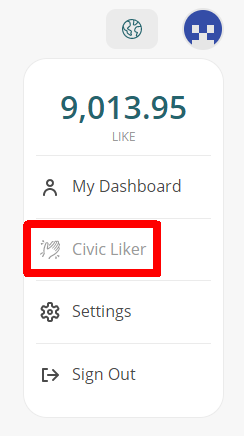
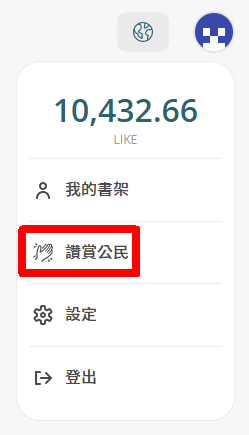
GitBook: [#4226] 以 Keplr 註冊 Liker ID

diff --git a/user-guide/liker-id/register-with-keplr.md b/user-guide/liker-id/register-with-keplr.md
@@ -6,7 +6,7 @@ description: 去中化註冊  Liker ID 及管理你的 LikeCoin
 
 用戶可以使用 [Keplr](../../general-guides/wallet/keplr/) 電子錢包註冊 Liker ID，以去中心化的方式管理 LikeCoin 並自行掌握私鑰。
 
-留意每個 Liker ID 只能從 「Keplr」及「一般方法 ( Authcore )」兩種註冊方式二選其一，選定後無法更改至另一種登入方式。
+留意每個 Liker ID 只能從 「Keplr」及「[一般方法 ( Authcore )](register/)」兩種註冊方式二選其一，選定後無法更改至另一種登入方式。
 
 ## 功能比較
 
@@ -16,7 +16,7 @@ description: 去中化註冊  Liker ID 及管理你的 LikeCoin
 | 用戶需自行管理私鑰，安全性較高                                                                                                                                           | 由 Authcore 提供的密碼管理技術管理用戶私鑰，較容易使用，但註冊後用戶也可以[匯出私鑰](export-seed-words.md)自行管理錢包                                                                               |
 | 錢包支援包括 LikeCoin 的多種貨幣，如 ATOM、OSMO、AKT、CRO、KAVA 等等                                                                                                         | 錢包只支援 LikeCoin                                                                                                                                             |
 | 只能以 Keplr 錢包登入                                                                                                                                            | 可以[社交帳號](register/social-media-logins.md) ( Google, Facebook, etc ) 或電郵登入                                                                                  |
-| 只能以桌面電腦 Chrome 瀏覽器的 Keplr extension 登入                                                                                                                    | 可登入 [Liker Land 手機應用程式](../liker-land/download.md)，也可以手機瀏覽器登入                                                                                              |
+| 只能以桌面電腦 Chrome 瀏覽器的 Keplr extension 登入 Liker Land 網頁版，【**不能登入  Liker Land app】**                                                                          | 可登入 [Liker Land 手機應用程式](../liker-land/download.md)，也可以手機瀏覽器登入 Liker Land 網頁版                                                                               |
 | 支援使用硬件錢包                                                                                                                                                 | 不支援硬件錢包                                                                                                                                                    |
 | 必需要轉入收款方的錢包地址[轉帳](../../general-guides/wallet/keplr/keplr-deposit-and-send-likecoin.md)                                                                   | 可輸入收款方的 Liker ID 或錢包地址[轉帳](../../general-guides/wallet/like-pay.md)                                                                                        |
 | 以 [dao.like.co 委託 LikeCoin](../../general-guides/stake/delegation-of-likecoin.md#delegate-via-dao.like.co)                                                | 以 [Liker Land app 或 dao.like.co 委託 LikeCoin](../../general-guides/stake/delegation-of-likecoin.md)                                                         |
@@ -25,7 +25,11 @@ description: 去中化註冊  Liker ID 及管理你的 LikeCoin
 | 支援註冊 [ISCN](../../general-guides/decentralized-publishing/app.like.co.md) 及購買 [Writing NFT](../../general-guides/writing-nft/collect-writing-nft/)        | 支援註冊 [ISCN](../../general-guides/decentralized-publishing/iscn-batch-uploader.md) 及購買 [Writing NFT](../../general-guides/writing-nft/collect-writing-nft/) |
 
 {% hint style="info" %}
-用戶現時可使用 [Cosmostation](../../general-guides/wallet/cosmostation/) 管理 LikeCoin，但仍未能使用 Cosmostation 註冊 Liker ID。
+用戶現時可使用 [Cosmostation](../../general-guides/wallet/cosmostation/) 或 [Leap](../../general-guides/wallet/leap/) 管理 LikeCoin，但仍未能使用 Cosmostation 註冊 Liker ID。
+{% endhint %}
+
+{% hint style="danger" %}
+不建議 [Matters](../creator/matters.md) 用戶使用 Keplr 錢包註冊的 Liker ID 綁定 Matters ID。
 {% endhint %}
 
 ## 如何以 Keplr 註冊 Liker ID
@@ -40,7 +44,7 @@ description: 去中化註冊  Liker ID 及管理你的 LikeCoin
 
 ### 步驟二：登入 Keplr
 
-到網址 [https://liker.land/](https://liker.land/civic/) 點右上角「Connect Wallet」。
+到網址 [https://liker.land/](https://liker.land/civic/) 點右上角「連接錢包」。
 
 <figure><img src="../../.gitbook/assets/Keplr Register Liker ID 01.png" alt=""><figcaption></figcaption></figure>
 
@@ -52,7 +56,7 @@ description: 去中化註冊  Liker ID 及管理你的 LikeCoin
 
 <figure><img src="../../.gitbook/assets/Keplr Register Liker ID 03.png" alt=""><figcaption></figcaption></figure>
 
-在三間菜單選「Civic Liker」，或者直到網址 [https://liker.land/civic](https://liker.land/civic)。
+在三間菜單選「讚賞公民」，或者直到網址 [https://liker.land/civic](https://liker.land/civic)。
 
 <figure><img src="../../.gitbook/assets/Keplr Register Liker ID 04.png" alt=""><figcaption></figcaption></figure>
 
@@ -79,7 +83,7 @@ Liker ID 將成功註冊並轉回 Liker Land 網頁。
 {% hint style="warning" %}
 一旦創建了 Liker ID，便不能修改字詞組合或登入方式。若不想再用某個 Liker ID，建議你把它留著不用，再創建一個新的。留意**一個電郵地址**或**一個錢包地址只可以註冊一個 Liker ID**。
 
-**同一電郵地址並不能同時以 Liker Land 及 Keplr 註冊 Liker ID。**
+**同一電郵地址並不能同時以 Keplr 及 Authcore 註冊 Liker ID。**
 {% endhint %}
 
 ### 步驟四：查看錢包

diff --git a/user-guide/liker-id/register/README.md b/user-guide/liker-id/register/README.md
@@ -37,7 +37,7 @@ Liker Land app 提供電郵地址+密碼及社交帳號 Google 登入、Facebook
 {% hint style="warning" %}
 一旦創建了 Liker ID，便不能修改字詞組合或登入方式。若不想再用某個 Liker ID，建議你把它留著不用，再創建一個新的。**留意一個電郵地址只可以註冊一個 Liker ID。**
 
-**同一電郵地址並不能同時以 Liker Land 及 Keplr 註冊 Liker ID。**
+**同一電郵地址並不能同時以 Liker Land app 及 Keplr 註冊 Liker ID。**
 {% endhint %}
 
 {% hint style="info" %}
